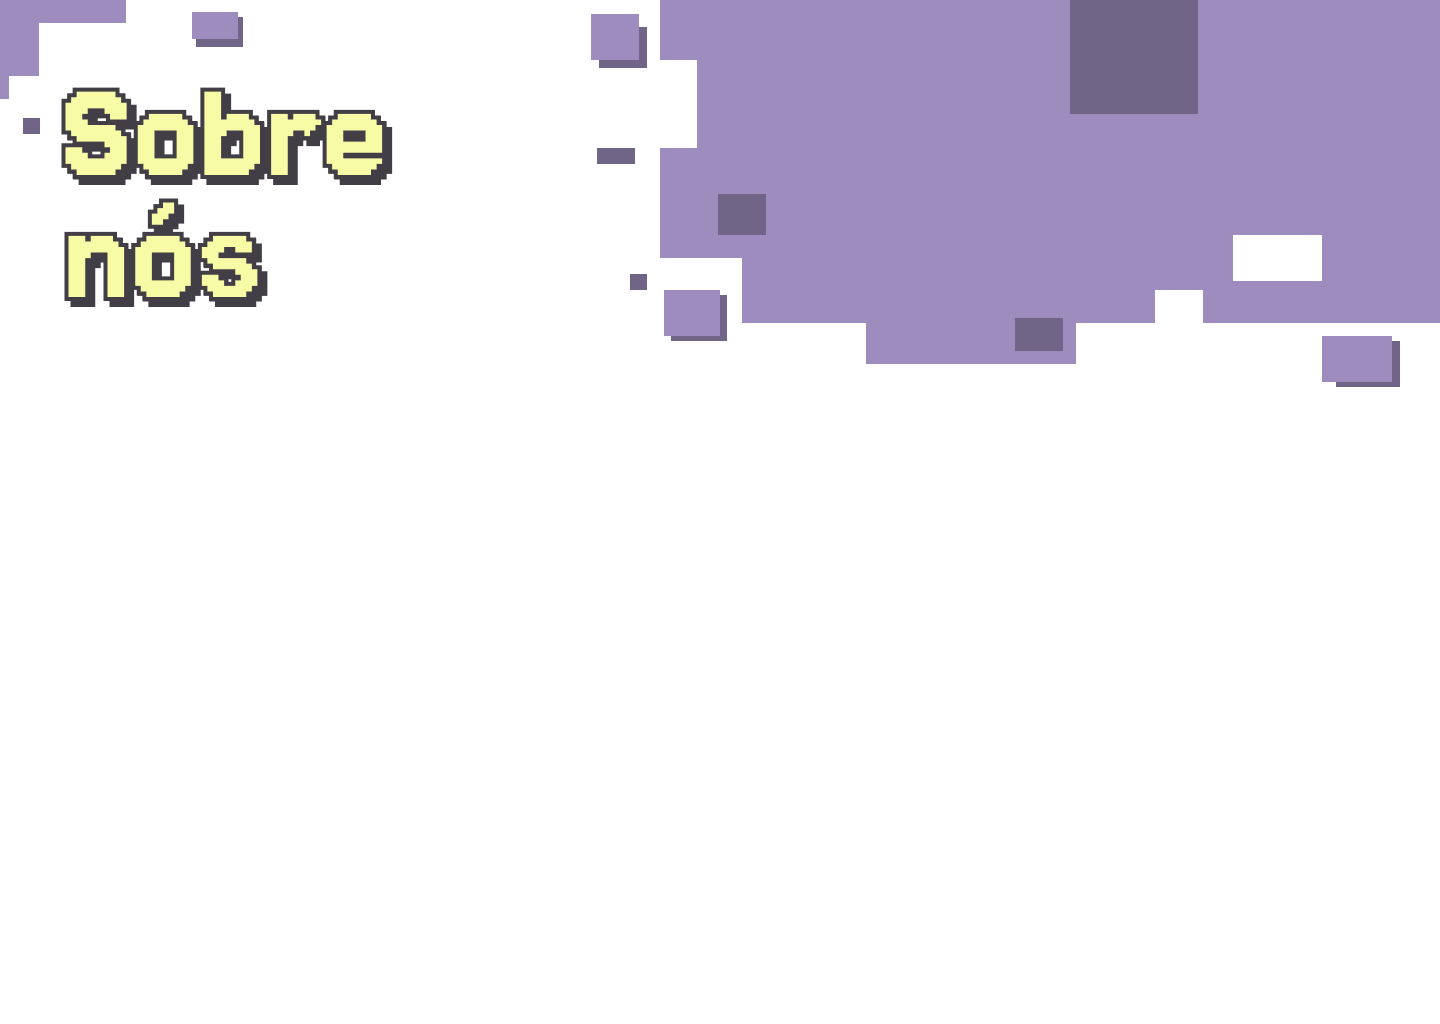
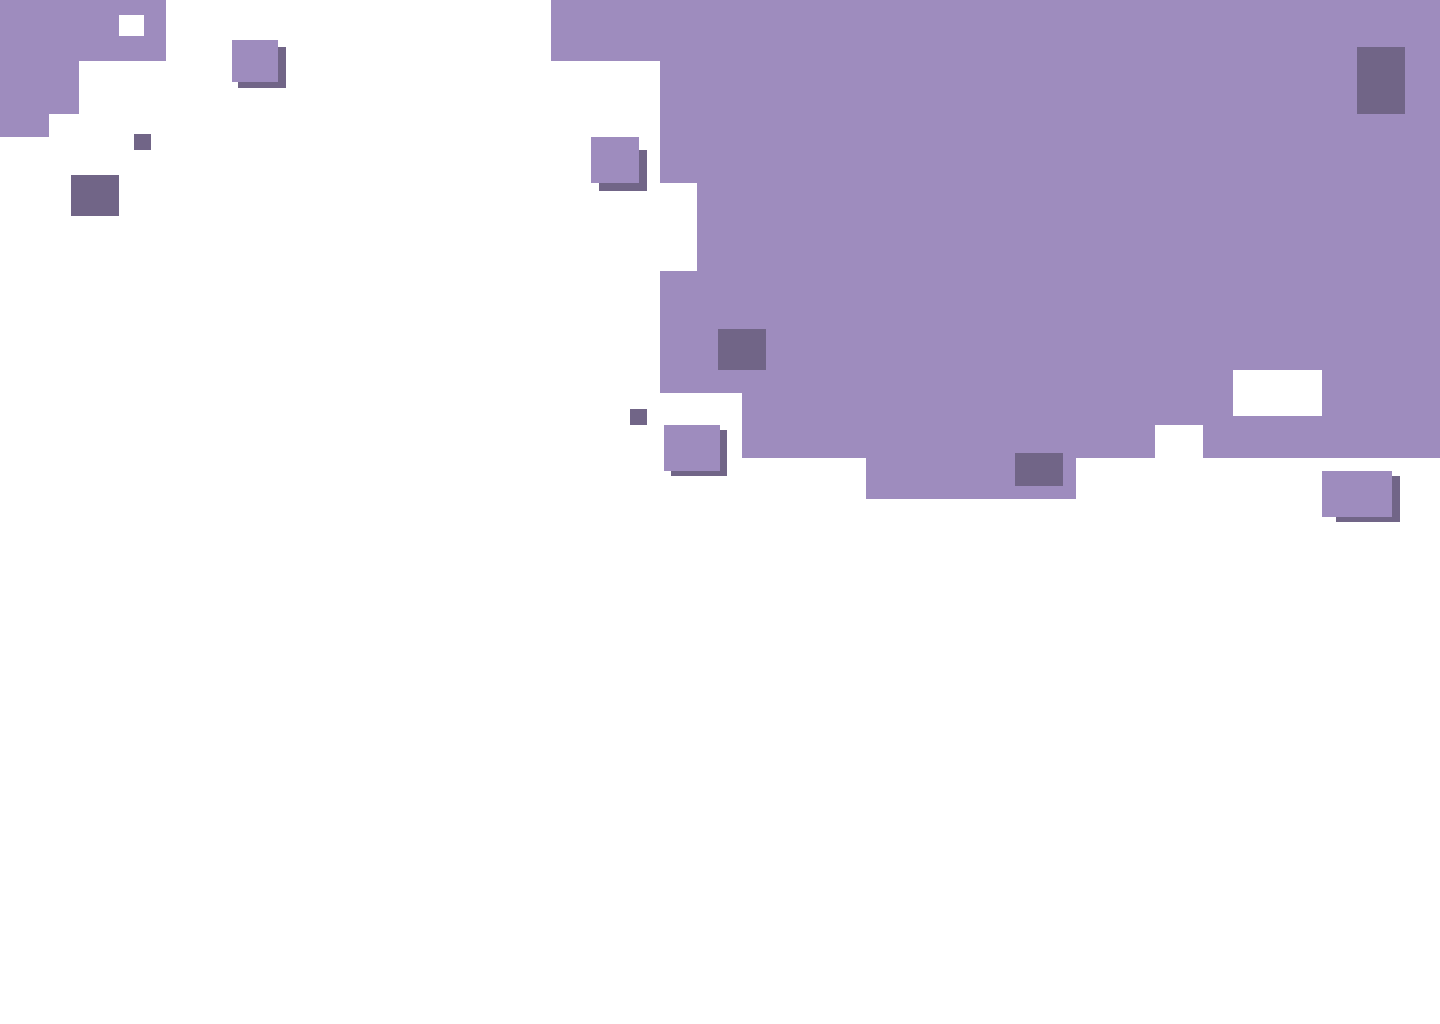
Design: arrumando a página sobre nós

diff --git a/src/view/sobre_nos.php b/src/view/sobre_nos.php
@@ -3,7 +3,7 @@
 require('header.php');
 ?>
 
-<main class="lg:bg-[url(../imgs/fundoSobre.png)] bg-no-repeat">
+<main class="lg:bg-[url(../imgs/fundoSobre.png)] bg-center bg-no-repeat">
     <!--Cabeçalho-->
     <header class="flex justify-between p-3">
         <div class="w-20">
@@ -24,34 +24,38 @@ require('header.php');
         <?php include 'menu.php'; ?>
     </header>
 
-    <div class="mt-2 lg:text-transparent">
-        <div class="text-center text-7xl">
-            <h1>Sobre nós</h1>
+     <div class="text-center lg:ml-10 ">
+            <!--Título tela grande-->
+            <h1 class=" leading-small text-left text-9xl text-[#F8FBA6] lg:mr-10 hidden lg:block" style="text-shadow: 7px 7px 0px #413E45; -webkit-text-stroke-width: 2.5px; -webkit-text-stroke-color: #413E45;">
+                Sobre <br> nós</h1>
+
+            <!--Título tela pequena-->
+            <h1 class="text-5xl text-[#F8FBA6] mr-5 lg:hidden" style="text-shadow: 2px 2px 0px #413E45; -webkit-text-stroke-width: 1.5px; -webkit-text-stroke-color: #413E45;">
+                Sobre <br> nós</h1>
         </div>
-    </div>
 
     <!--Opções de navegação-->
     <div class="flex flex-col gap-4 mx-7 mb-10 mt-4 lg:flex-row lg:gap-6 lg:mx-16">
         <button onclick="mostrarCardBolsa()"
-            class="cursor-pointer py-1 px-2 text-xl text-[#F8FBA6] bg-[#9E8CBE] transition duration-500 hover:bg-[#F8FBA6] hover:text-[#543A82] lg:mt-44"
+            class="cursor-pointer py-1 px-2 text-xl text-[#F8FBA6] bg-[#9E8CBE] transition duration-500 hover:bg-[#F8FBA6] hover:text-[#543A82] lg:mt-5"
             style="box-shadow: 4px 4px 0px #716587; text-shadow: -1px 1px 0px #716587">
             Sobre a bolsa
         </button>
 
         <button onclick="mostrarCardBolsistas()"
-            class="cursor-pointer py-1 px-2 text-xl text-[#F8FBA6] bg-[#9E8CBE] transition duration-500 hover:bg-[#F8FBA6] hover:text-[#543A82] lg:mt-44"
+            class="cursor-pointer py-1 px-2 text-xl text-[#F8FBA6] bg-[#9E8CBE] transition duration-500 hover:bg-[#F8FBA6] hover:text-[#543A82] lg:mt-5"
             style="box-shadow: 4px 4px 0px #716587; text-shadow: -1px 1px 0px #716587">
             Desenvolvedoras
         </button>
 
         <button onclick="mostrarCardObjetivo()"
-            class="cursor-pointer py-1 px-2 text-xl text-[#F8FBA6] bg-[#9E8CBE] transition duration-500 hover:bg-[#F8FBA6] hover:text-[#543A82] lg:mt-44"
+            class="cursor-pointer py-1 px-2 text-xl text-[#F8FBA6] bg-[#9E8CBE] transition duration-500 hover:bg-[#F8FBA6] hover:text-[#543A82] lg:mt-5"
             style="box-shadow: 4px 4px 0px #716587; text-shadow: -1px 1px 0px #716587">
             Objetivo
         </button>
 
         <button onclick="mostrarCardResultados()"
-            class="cursor-pointer py-1 px-2 text-xl text-[#F8FBA6] bg-[#9E8CBE] transition duration-500 hover:bg-[#F8FBA6] hover:text-[#543A82] lg:mt-44"
+            class="cursor-pointer py-1 px-2 text-xl text-[#F8FBA6] bg-[#9E8CBE] transition duration-500 hover:bg-[#F8FBA6] hover:text-[#543A82] lg:mt-5"
             style="box-shadow: 4px 4px 0px #716587; text-shadow: -1px 1px 0px #716587">
             Resultados
         </button>

diff --git a/src/view/tradutor.php b/src/view/tradutor.php
@@ -41,9 +41,9 @@ require('header.php');
     </header>
 
     <div class="flex justify-center m-2">
-        <div class="text-center lg:text-transparent">
+        <div class="text-center">
             <!--Título tela grande-->
-            <h1 class="text-left text-8xl text-[#F8FBA6] lg:mr-10 hidden lg:block" style="text-shadow: 7px 7px 0px #413E45; -webkit-text-stroke-width: 2.5px; -webkit-text-stroke-color: #413E45;">
+            <h1 class="text-left lg:text-8xl text-[#F8FBA6] lg:mr-10 hidden lg:block" style="text-shadow: 7px 7px 0px #413E45; -webkit-text-stroke-width: 2.5px; -webkit-text-stroke-color: #413E45;">
                 Digite <br> uma frase no <br> campo abaixo</h1>
 
             <!--Título tela pequena-->
